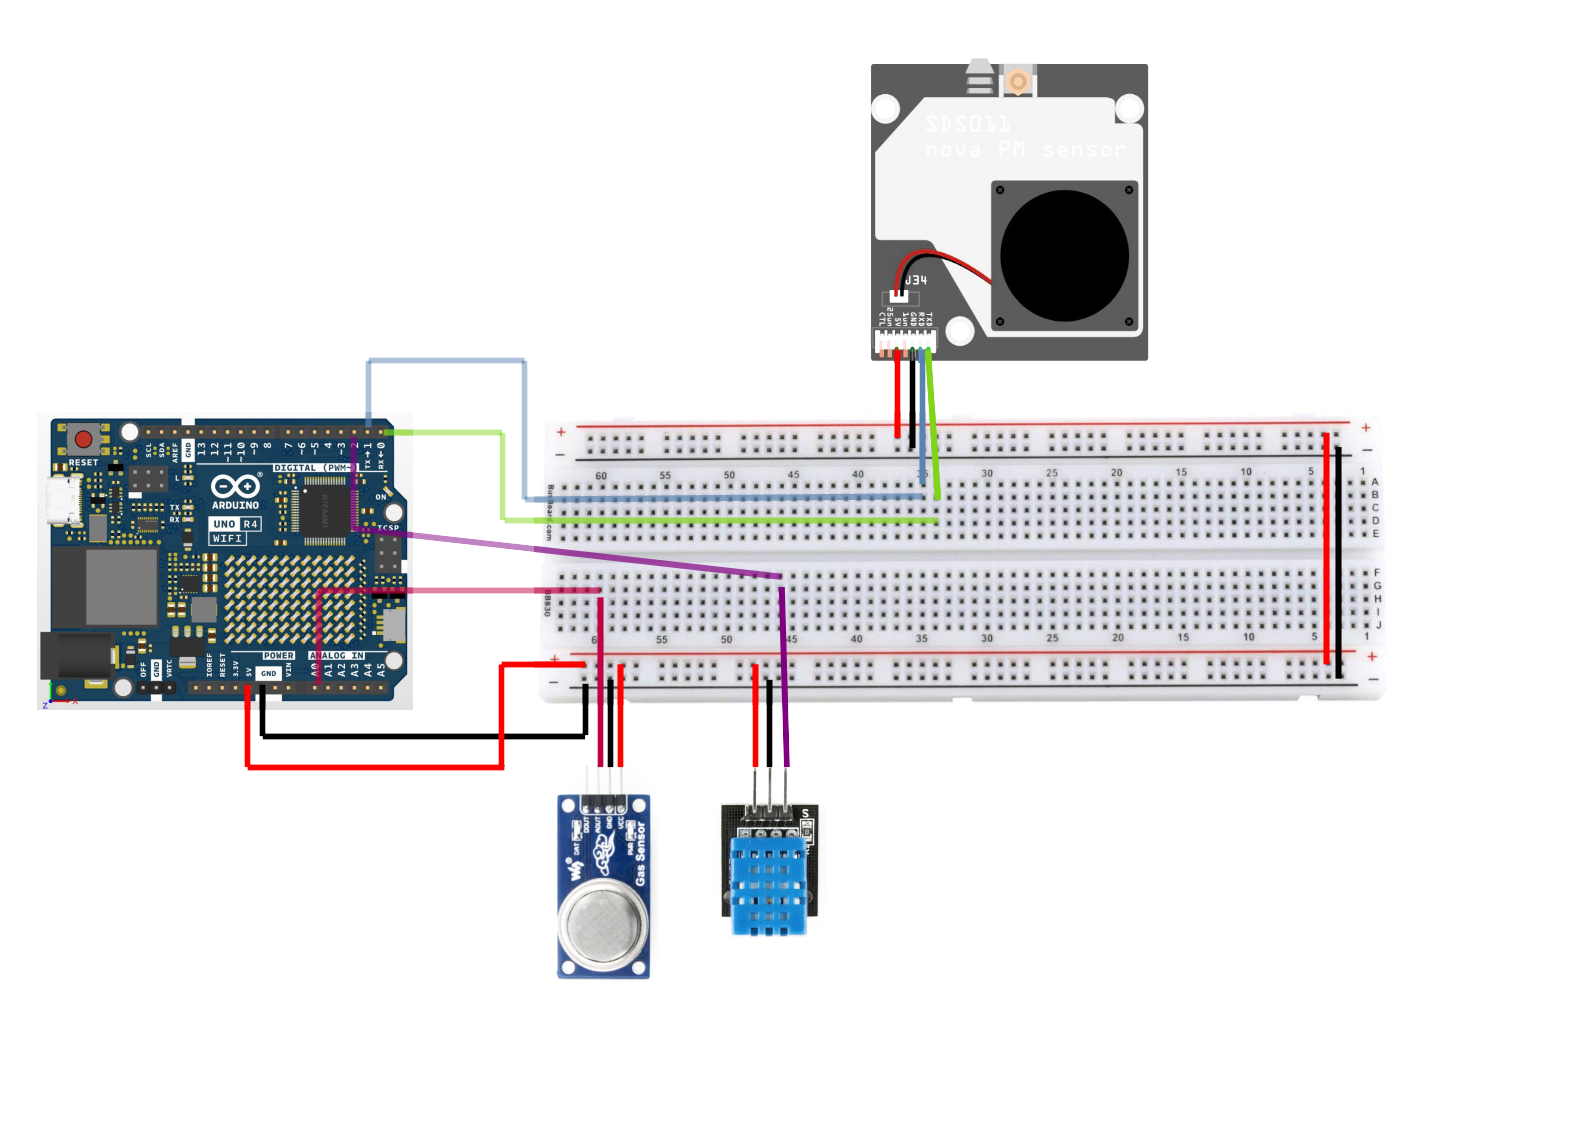
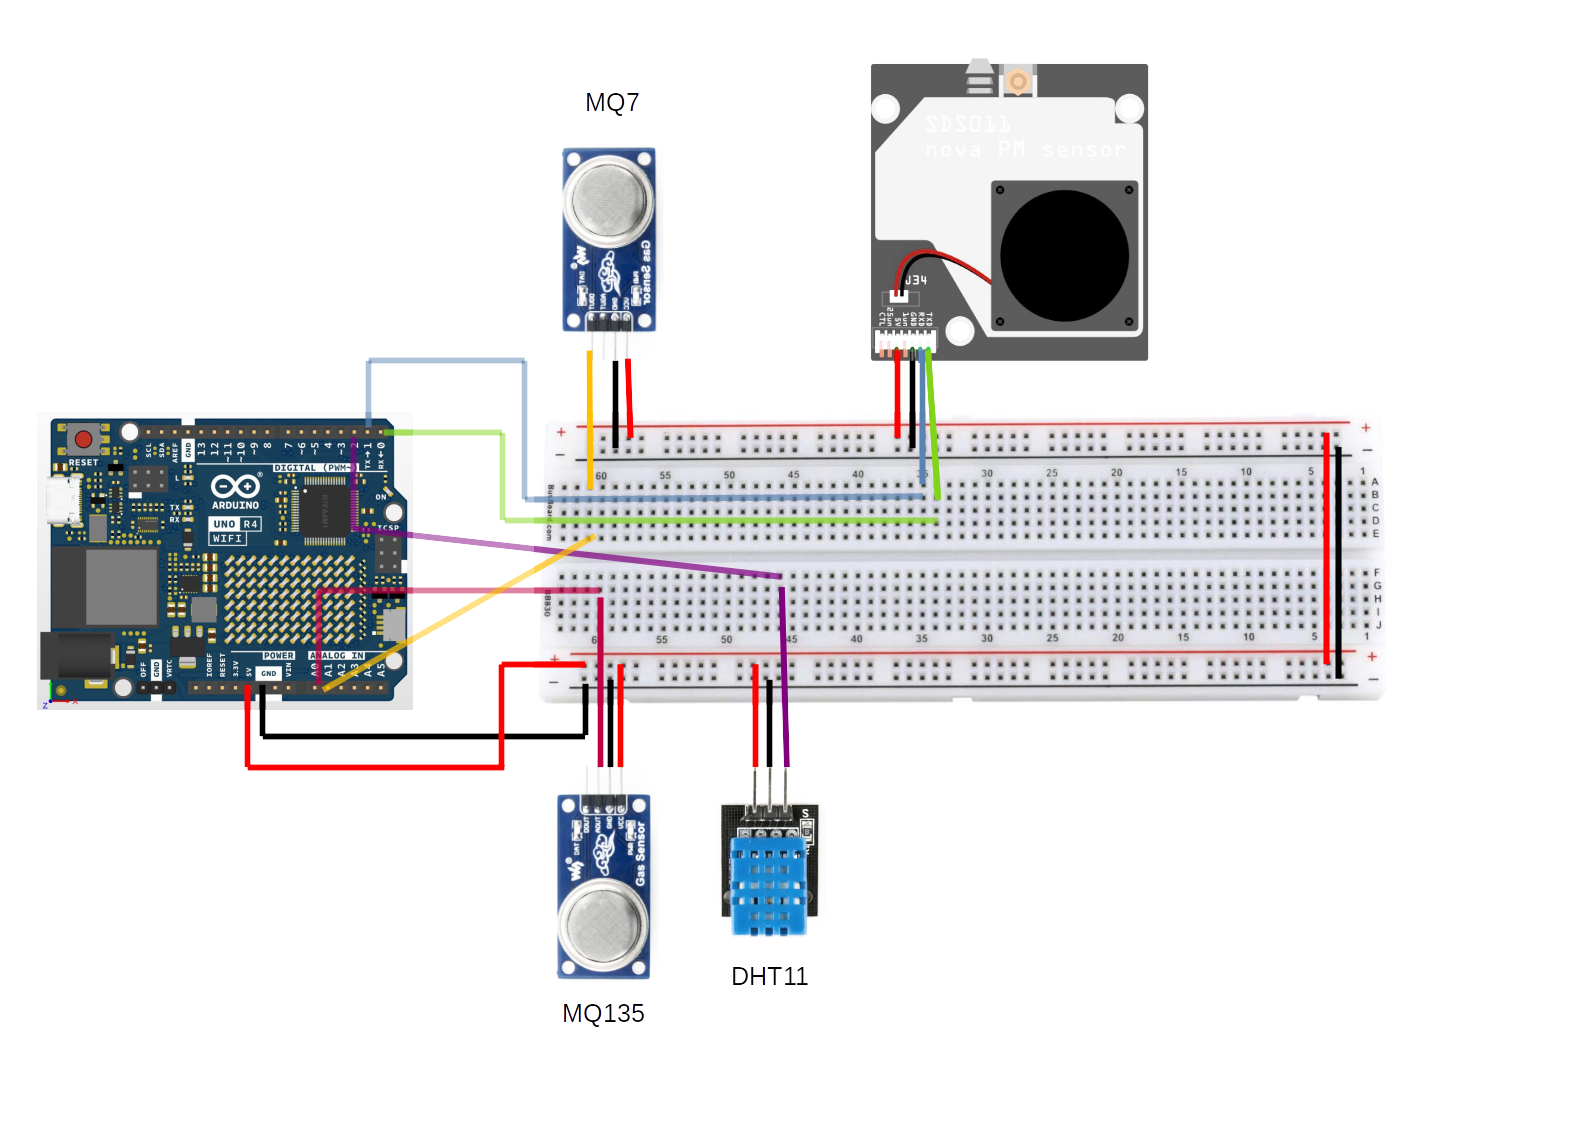
CO sensor

diff --git a/README.md b/README.md
@@ -6,6 +6,7 @@ A simple air quality monitor with Arduino UNO WIFI R2 and a Go server
 - Arduino UNO WIFI R2
 - DHT11 sensor (PIN 2) - optional (without T=20 H=50)
 - MQ135 sensor (PIN A0)
+- MQ7 sensor (PIN A1) 
 - SDS011 PM sensor (RX -> TX-PIN 1 , TX -> RX-PIN 0) - optional
 - Raspberry PI4 or PI5 - optional (only for fully automated hub with grafana)
 
@@ -18,6 +19,7 @@ Web server providing json data for:
 - CO2 ppm
 - NH3 ppm
 - NOx ppm
+- CO ppm
 - PM 2.5
 - PM 10
 
@@ -30,7 +32,8 @@ example of json response:
 	"nh3": 0.65,
 	"nox": 0.13,
         "PM2.5": 13,
-        "PM10:": 130
+        "PM10:": 130,
+	"CO": 10
 }
 ```
 On the Serial Console (9600bd) you can find device IP.
